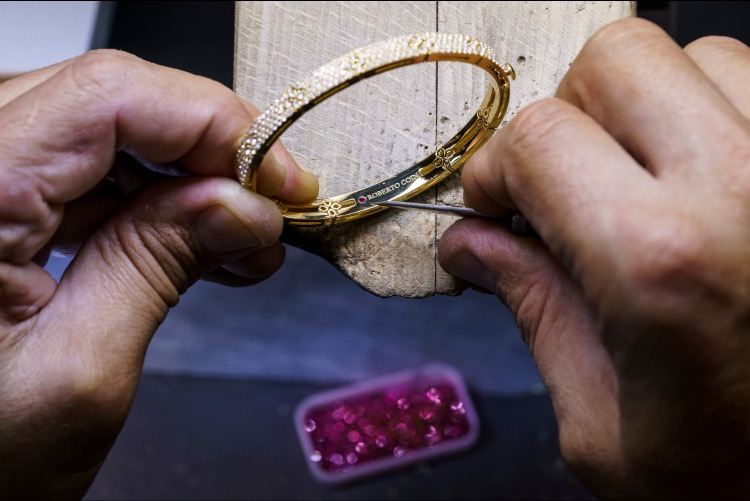
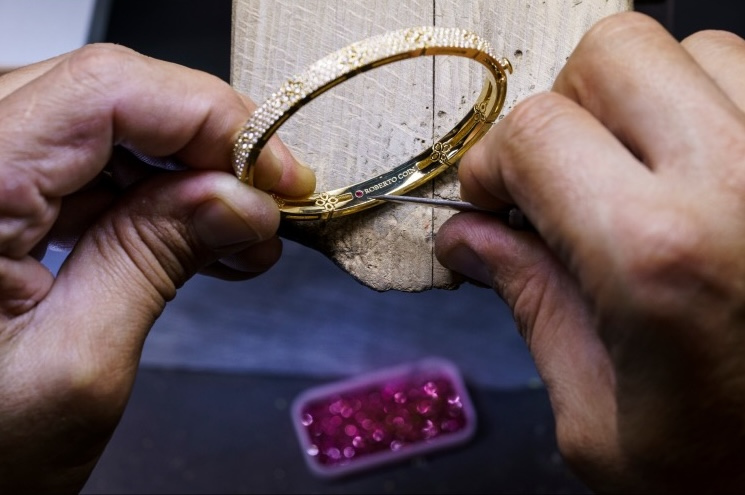
.

diff --git a/assets/roberto-coin-story.css b/assets/roberto-coin-story.css
@@ -1025,6 +1025,7 @@ body.has-rc-story {
   position: absolute;
   z-index: 2;
   max-width: min(24rem, 34vw);
+  text-align: left;
   opacity: 0;
   transform: translateY(0.8rem);
   transition:
@@ -1039,6 +1040,7 @@ body.has-rc-story {
 
 .timeline-caption p {
   margin: 0;
+  text-align: left;
   font-family: "Inter", sans-serif;
   font-size: 12pt;
   font-weight: 400;
@@ -1093,30 +1095,15 @@ body.has-rc-story {
 }
 
 .media-art::before {
-  content: "";
-  position: absolute;
-  inset: 0;
-  background:
-    linear-gradient(135deg, rgba(255, 255, 255, 0.14), transparent 32%),
-    linear-gradient(180deg, transparent 50%, rgba(0, 0, 0, 0.48) 100%),
-    var(--card-fill, linear-gradient(135deg, #446d63 0%, #243b38 100%));
+  display: none;
 }
 
 .media-art.has-image::before {
-  background:
-    linear-gradient(135deg, rgba(255, 255, 255, 0.16), transparent 28%),
-    linear-gradient(180deg, transparent 50%, rgba(0, 0, 0, 0.4) 100%);
+  display: none;
 }
 
 .media-art::after {
-  content: "";
-  position: absolute;
-  inset: 0;
-  background:
-    linear-gradient(0deg, rgba(255, 255, 255, 0.08), transparent 40%),
-    repeating-linear-gradient(90deg, rgba(255, 255, 255, 0.03) 0 1px, transparent 1px 14px);
-  mix-blend-mode: screen;
-  opacity: 0.45;
+  display: none;
 }
 
 .year-rail {

diff --git a/assets/roberto-coin-story.js b/assets/roberto-coin-story.js
@@ -8,6 +8,7 @@
       y: 18,
       w: 36,
       h: 46,
+      scale: 100,
     },
     {
       label: "Street portrait",
@@ -17,6 +18,7 @@
       y: 0,
       w: 24,
       h: 58,
+      scale: 100,
     },
     {
       label: "Gold detail",
@@ -26,6 +28,7 @@
       y: 8,
       w: 18,
       h: 26,
+      scale: 100,
     },
   ];
   const TIMELINE_COPY_2013 =
@@ -39,6 +42,8 @@
     normalized.y = Number.isFinite(Number(normalized.y)) ? Number(normalized.y) : fallback.y;
     normalized.w = Number.isFinite(Number(normalized.w)) && Number(normalized.w) > 0 ? Number(normalized.w) : fallback.w;
     normalized.h = Number.isFinite(Number(normalized.h)) && Number(normalized.h) > 0 ? Number(normalized.h) : fallback.h;
+    normalized.scale =
+      Number.isFinite(Number(normalized.scale)) && Number(normalized.scale) > 0 ? Number(normalized.scale) : fallback.scale;
 
     return normalized;
   }
@@ -303,9 +308,7 @@
         return;
       }
 
-      const isYear2013 = String(entry.year).trim() === "2013";
       const layoutMedia = buildTimelineMediaLayout(entry);
-      const anchor = layoutMedia[layoutMedia.length - 1] || { x: 34, y: 60, w: 32, h: 20 };
       const [lineOne, lineTwo] = toTwoLineCaption(entry.copy);
       const lastImageDelay = Math.max(layoutMedia.length - 1, 0) * 320;
       const captionDelay = lastImageDelay + 260;
@@ -318,15 +321,11 @@
       captionLineOne.textContent = lineOne;
       captionLineTwo.textContent = lineTwo;
 
-      if (isYear2013) {
-        timelineCaption.style.left = `${Math.min(anchor.x + anchor.w + 3, 72)}%`;
-        timelineCaption.style.top = `${Math.max(anchor.y + 6, 10)}%`;
-        timelineCaption.style.width = "26%";
-      } else {
-        timelineCaption.style.left = `${anchor.x}%`;
-        timelineCaption.style.top = `${Math.min(anchor.y + anchor.h + 4, 88)}%`;
-        timelineCaption.style.width = `${Math.max(anchor.w, 24)}%`;
-      }
+      const minX = layoutMedia.length ? Math.min(...layoutMedia.map((item) => item.x)) : 0;
+      const maxBottom = layoutMedia.length ? Math.max(...layoutMedia.map((item) => item.y + item.h)) : 68;
+      timelineCaption.style.left = `${Math.max(minX, 0)}%`;
+      timelineCaption.style.top = `${Math.min(maxBottom + 4, 88)}%`;
+      timelineCaption.style.width = `${Math.max(24, Math.min(40, 100 - Math.max(minX, 0) - 4))}%`;
 
       captionRevealTimer = window.setTimeout(() => {
         timelineCaption.classList.add("is-visible");
@@ -438,6 +437,8 @@
         if (item.image) {
           art.classList.add("has-image");
           art.style.backgroundImage = `url("${item.image}")`;
+          art.style.backgroundSize = `${Math.max(60, Math.min(180, item.scale || 100))}%`;
+          art.style.backgroundPosition = "center";
         } else {
           art.style.setProperty("--card-fill", item.fill);
         }